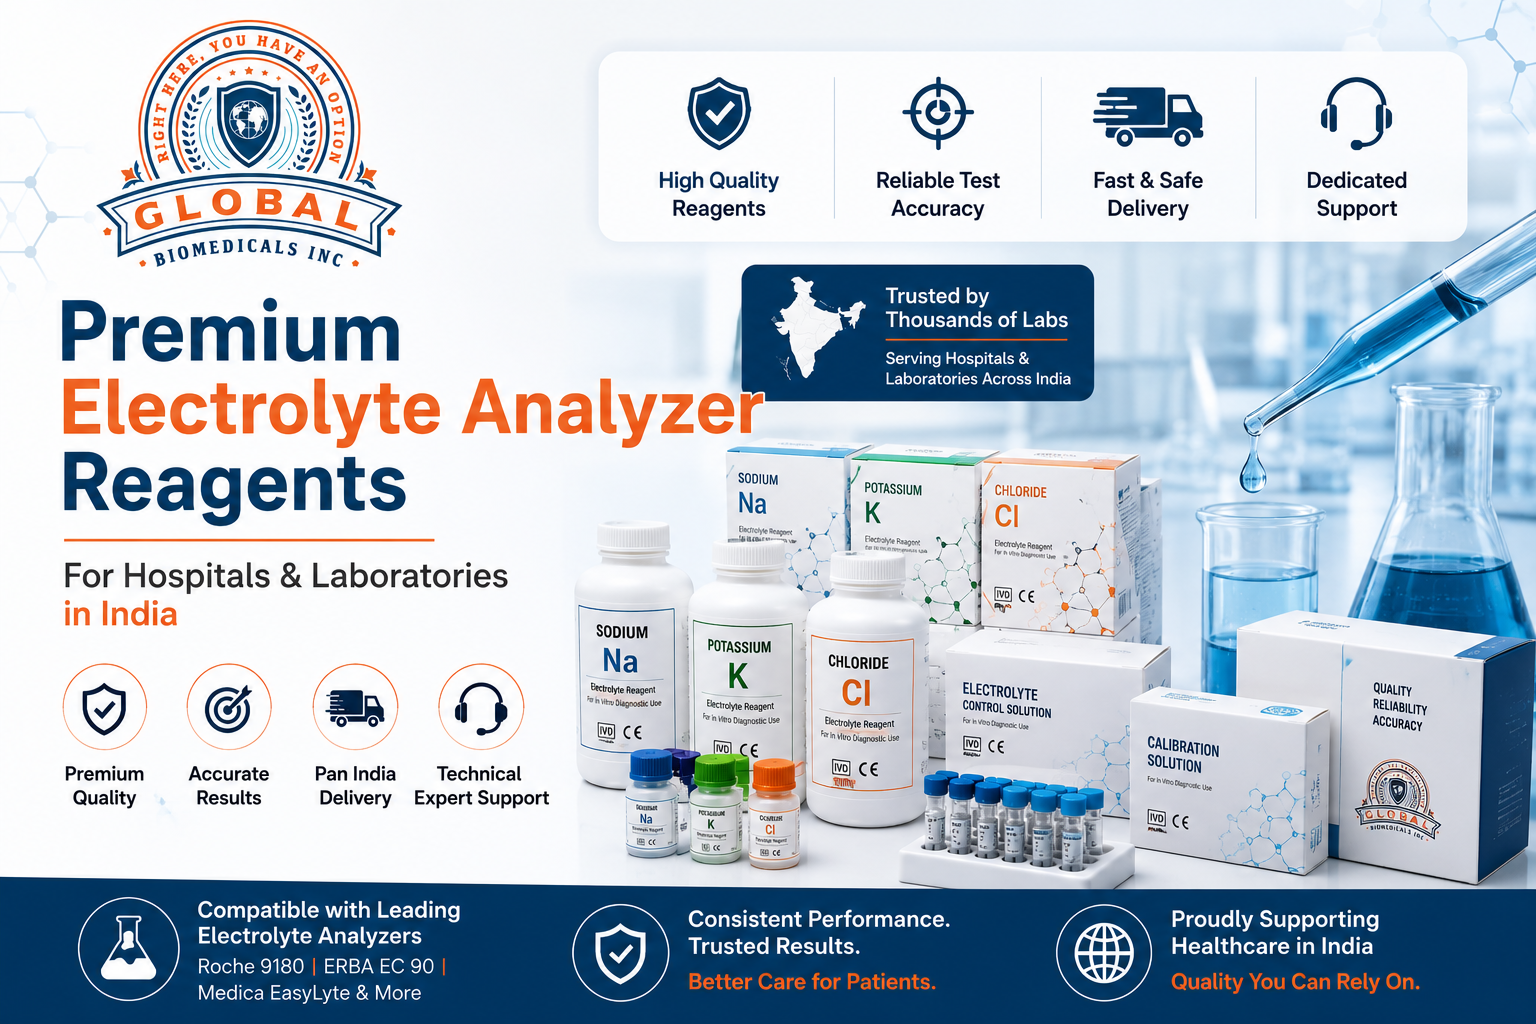
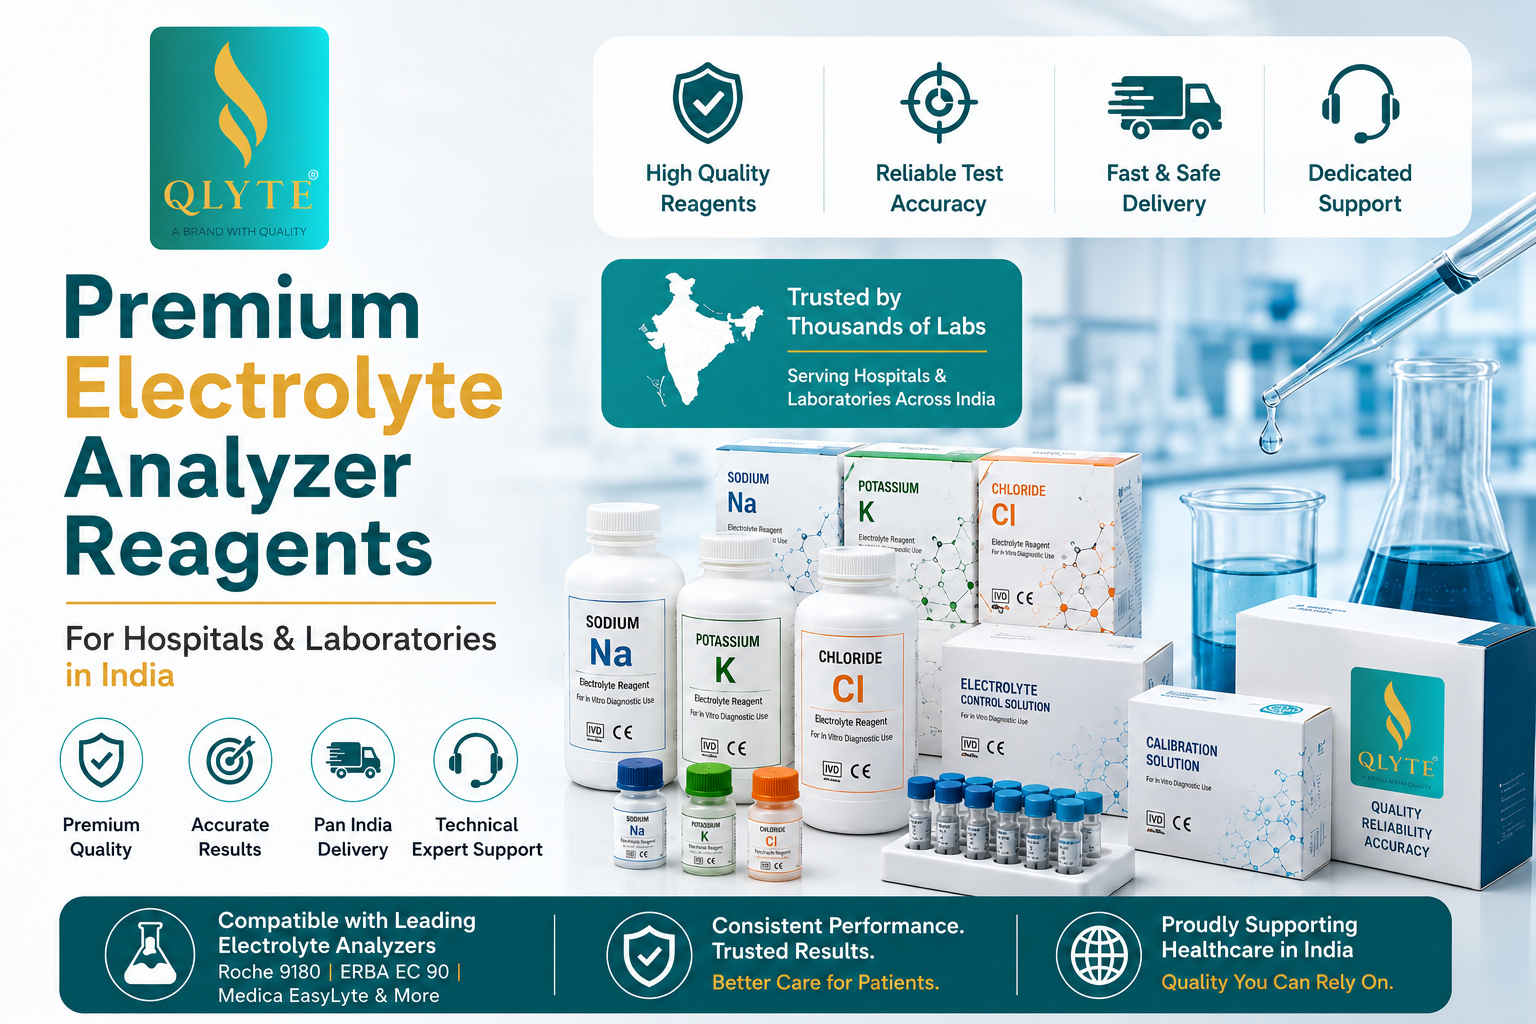
changes in img

diff --git a/src/app/page.jsx b/src/app/page.jsx
@@ -120,7 +120,7 @@ export default async function Home({ districtData }) {
             </div>
 
             <div className="stats-grid">
-            
+
             </div>
           </div>
 
@@ -130,27 +130,27 @@ export default async function Home({ districtData }) {
               //   savedData.imageUrl ||
               //   "https://images.unsplash.com/photo-1532187643603-ba119ca4109e"
               // }
-               src={Qlyte.src}
+              src={Qlyte.src}
               alt={`Premium Laboratory Equipment Supplier in ${location}`}
             />
           </div>
         </div>
 
-        <div className="stats-grid"> 
-  <div>
-                <h3>10K+</h3>
-                <p>Reagents Delivered</p>
-              </div>
+        <div className="stats-grid">
+          <div>
+            <h3>10K+</h3>
+            <p>Reagents Delivered</p>
+          </div>
 
-              <div>
-                <h3>50K</h3>
-                <p>Our Clients Family</p>
-              </div>
+          <div>
+            <h3>50K</h3>
+            <p>Our Clients Family</p>
+          </div>
 
-              <div>
-                <h3>15+</h3>
-                <p>Years Experience</p>
-              </div>
+          <div>
+            <h3>15+</h3>
+            <p>Years Experience</p>
+          </div>
 
         </div>
       </section>
@@ -185,7 +185,7 @@ export default async function Home({ districtData }) {
               <img
                 src={picone.src}
                 alt="Roche 9180 Electrolyte Reagent"
-            
+
               />
               <h3>Roche 9180 Electrolyte Reagent</h3>
               <p>
@@ -199,7 +199,7 @@ export default async function Home({ districtData }) {
               <img
                 src={pictwo.src}
                 alt="ERBA EC 90 Electrolyte Reagen"
-            
+
               />
 
               <h3>ERBA EC 90 Electrolyte Reagent</h3>
@@ -211,9 +211,9 @@ export default async function Home({ districtData }) {
 
             <div className="product-card">
               <img
-               src={picthree.src}
+                src={picthree.src}
                 alt="Medica EasyLyte Reagent"
-           
+
               />
 
               <h3>Medica EasyLyte Reagent</h3>
@@ -256,7 +256,7 @@ export default async function Home({ districtData }) {
         <div className="container-custom why-grid">
           <div className="why-image">
             <img
-               src={Homeimg.src}
+              src={Homeimg.src}
               alt="Laboratory Equipment"
 
             />